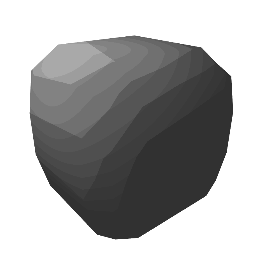
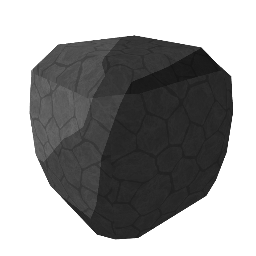
Add HUD block layout.

diff --git a/scripts/UI/HeadUpDisplay.ts b/scripts/UI/HeadUpDisplay.ts
@@ -57,20 +57,80 @@ class HeadUpDisplay extends BABYLON.Mesh {
         );
 
         let angularMargin = 0.04;
+        let size = 0.055;
         for (let b = 0; b < 10; b ++) {
+            /*
+            let w = 10;
+            let x0 = 500 + w;
+            let x1 = 600 - w;
+            let y0 = 1000 - 100 * (b + 1) + w;
+            let y1 = 1000 - 100 * b - w;
+            hudSlika.add(
+                new SlikaPath({
+                    points: [
+                        x0, y0,
+                        x1, y0,
+                        x1, y1,
+                        x0, y1
+                    ],
+                    close: true,
+                    fillColor: new BABYLON.Color3(0.5, 0.5, 0.5), 
+                    fillAlpha: 1,
+                    strokeColor: BABYLON.Color3.FromHexString(Config.uiConfiguration.holoScreenBaseColor), 
+                    strokeAlpha: 1,
+                    width: w
+                })
+            );
+            */
+            hudSlika.add(new SlikaText({
+                text: "44",
+                textAlign: "center",
+                x: 550,
+                y: 1000 - 20 - b * 100,
+                fontSize: 70,
+                highlightRadius: 0,
+                fontFamily: "XoloniumRegular"
+            }));
+
             let beta = - yAngleSide * 0.5 + angularMargin + (yAngleSide - 2 * angularMargin) * b / 9;
+
             let hudLateralTile = new BABYLON.Mesh("hud-lateral-tile-" + b);
-            VertexDataUtils.CreatePlane(0.055, 0.055, undefined, undefined, 0, 0.5, 0.5, 1).applyToMesh(hudLateralTile);
+            VertexDataUtils.CreatePlane(size, size, undefined, undefined, 0, 0.5, 0.5, 1).applyToMesh(hudLateralTile);
+            hudLateralTile.layerMask = 0x10000000;
+            hudLateralTile.alphaIndex = 1;
+            hudLateralTile.parent = this;
+            hudLateralTile.material = hudMaterial;
+
             hudLateralTile.position.y = Math.sin(beta);
             hudLateralTile.position.z = Math.cos(beta);
             hudLateralTile.rotationQuaternion = BABYLON.Quaternion.Identity();
             VMath.QuaternionFromZYAxisToRef(hudLateralTile.position, BABYLON.Axis.Y, hudLateralTile.rotationQuaternion);
-            hudLateralTile.parent = this;
             hudLateralTile.rotateAround(BABYLON.Vector3.Zero(), BABYLON.Axis.Y, - (xAngle * 0.5 - angularMargin));
-            hudLateralTile.layerMask = 0x10000000;
-            hudLateralTile.alphaIndex = 1;
 
-            hudLateralTile.material = hudMaterial;
+
+            let v0 = b * 0.1;
+            let hudLateralTileCount = new BABYLON.Mesh("hud-lateral-tile-" + b + "-image");
+            VertexDataUtils.CreatePlane(size * 0.35, size * 0.35, - size * 0.55, - size * 0.55, 0.5, v0, 0.6, v0 + 0.1).applyToMesh(hudLateralTileCount);
+            hudLateralTileCount.layerMask = 0x10000000;
+            hudLateralTileCount.alphaIndex = 1;
+            hudLateralTileCount.position.z = - 0.1;
+            hudLateralTileCount.parent = hudLateralTile;
+            hudLateralTileCount.material = hudMaterial;
+
+            let hudLateralTileImage = new BABYLON.Mesh("hud-lateral-tile-" + b + "-image");
+            VertexDataUtils.CreatePlane(size * 0.7, size * 0.7, - size * 0.3, - size * 0.25, 0, 0, 1, 1).applyToMesh(hudLateralTileImage);
+            hudLateralTileImage.layerMask = 0x10000000;
+            hudLateralTileImage.alphaIndex = 1;
+            hudLateralTileImage.position.z = - 0.1;
+            hudLateralTileImage.parent = hudLateralTile;
+            
+            let iconMaterial = new BABYLON.StandardMaterial("hud-lateral-tile-" + b + "-image-material");
+            hudLateralTileImage.material = iconMaterial;
+            iconMaterial.emissiveColor.copyFromFloats(1, 1, 1);
+            iconMaterial.specularColor.copyFromFloats(0, 0, 0);
+            iconMaterial.diffuseTexture = new BABYLON.Texture("datas/images/block-icon-" + BlockTypeNames[BlockType.Grass + b] + "-miniature.png");
+            iconMaterial.diffuseTexture.hasAlpha = true;
+            iconMaterial.useAlphaFromDiffuseTexture = true;
         }
 
         this.parent = this.player.camPos;

diff --git a/scripts/Main/Miniature.ts b/scripts/Main/Miniature.ts
@@ -80,6 +80,7 @@ class Miniature extends Main {
         super.initialize();
         this.camera = new BABYLON.ArcRotateCamera("camera", 0, 0, 10, BABYLON.Vector3.Zero());
         this.camera.wheelPrecision *= 10;
+		this.scene.activeCamera = this.camera;
 
 		this.sizeMarkerMaterial = new BABYLON.StandardMaterial("size-marker-material", Main.Scene);
 		this.sizeMarkerMaterial.specularColor.copyFromFloats(0, 0, 0);
@@ -102,20 +103,28 @@ class Miniature extends Main {
         let vertexData = (await this.vertexDataLoader.get("chunck-part"))[0];
         let colors = [];
         let uvs = [];
+		let uvs2 = [];
         for (let i = 0; i < vertexData.positions.length / 3; i++) {
-            colors[4 * i] = 1;
-            colors[4 * i + 1] = 1;
-            colors[4 * i + 2] = 1;
+            colors[4 * i] = Math.SQRT2;
+            colors[4 * i + 1] = 0;
+            colors[4 * i + 2] = Math.SQRT2;
             colors[4 * i + 3] = blockType / 128;
-            uvs[2 * i] = blockType / 128;
-            uvs[2 * i + 1] = blockType / 128;
+			uvs[2 * i] = vertexData.positions[3 * i] * 0.25;
+			uvs[2 * i + 1] = vertexData.positions[3 * i + 2] * 0.25;
+			
+			uvs2[2 * i] = vertexData.positions[3 * i + 1] * 0.25;
+			uvs2[2 * i + 1] = 1;
         }
         vertexData.colors = colors;
         vertexData.uvs = uvs;
+		vertexData.uvs2 = uvs2;
 
         let block = BABYLON.MeshBuilder.CreateBox("block");
         vertexData.applyToMesh(block);
-        block.material = SharedMaterials.MainMaterial()
+		
+		let material = new PlanetMaterial("chunck-material", this.scene);
+        material.setPlanetPos(new BABYLON.Vector3(0, - 10, 0));
+        block.material = material;
 		
 		this.targets = [block];
 		
